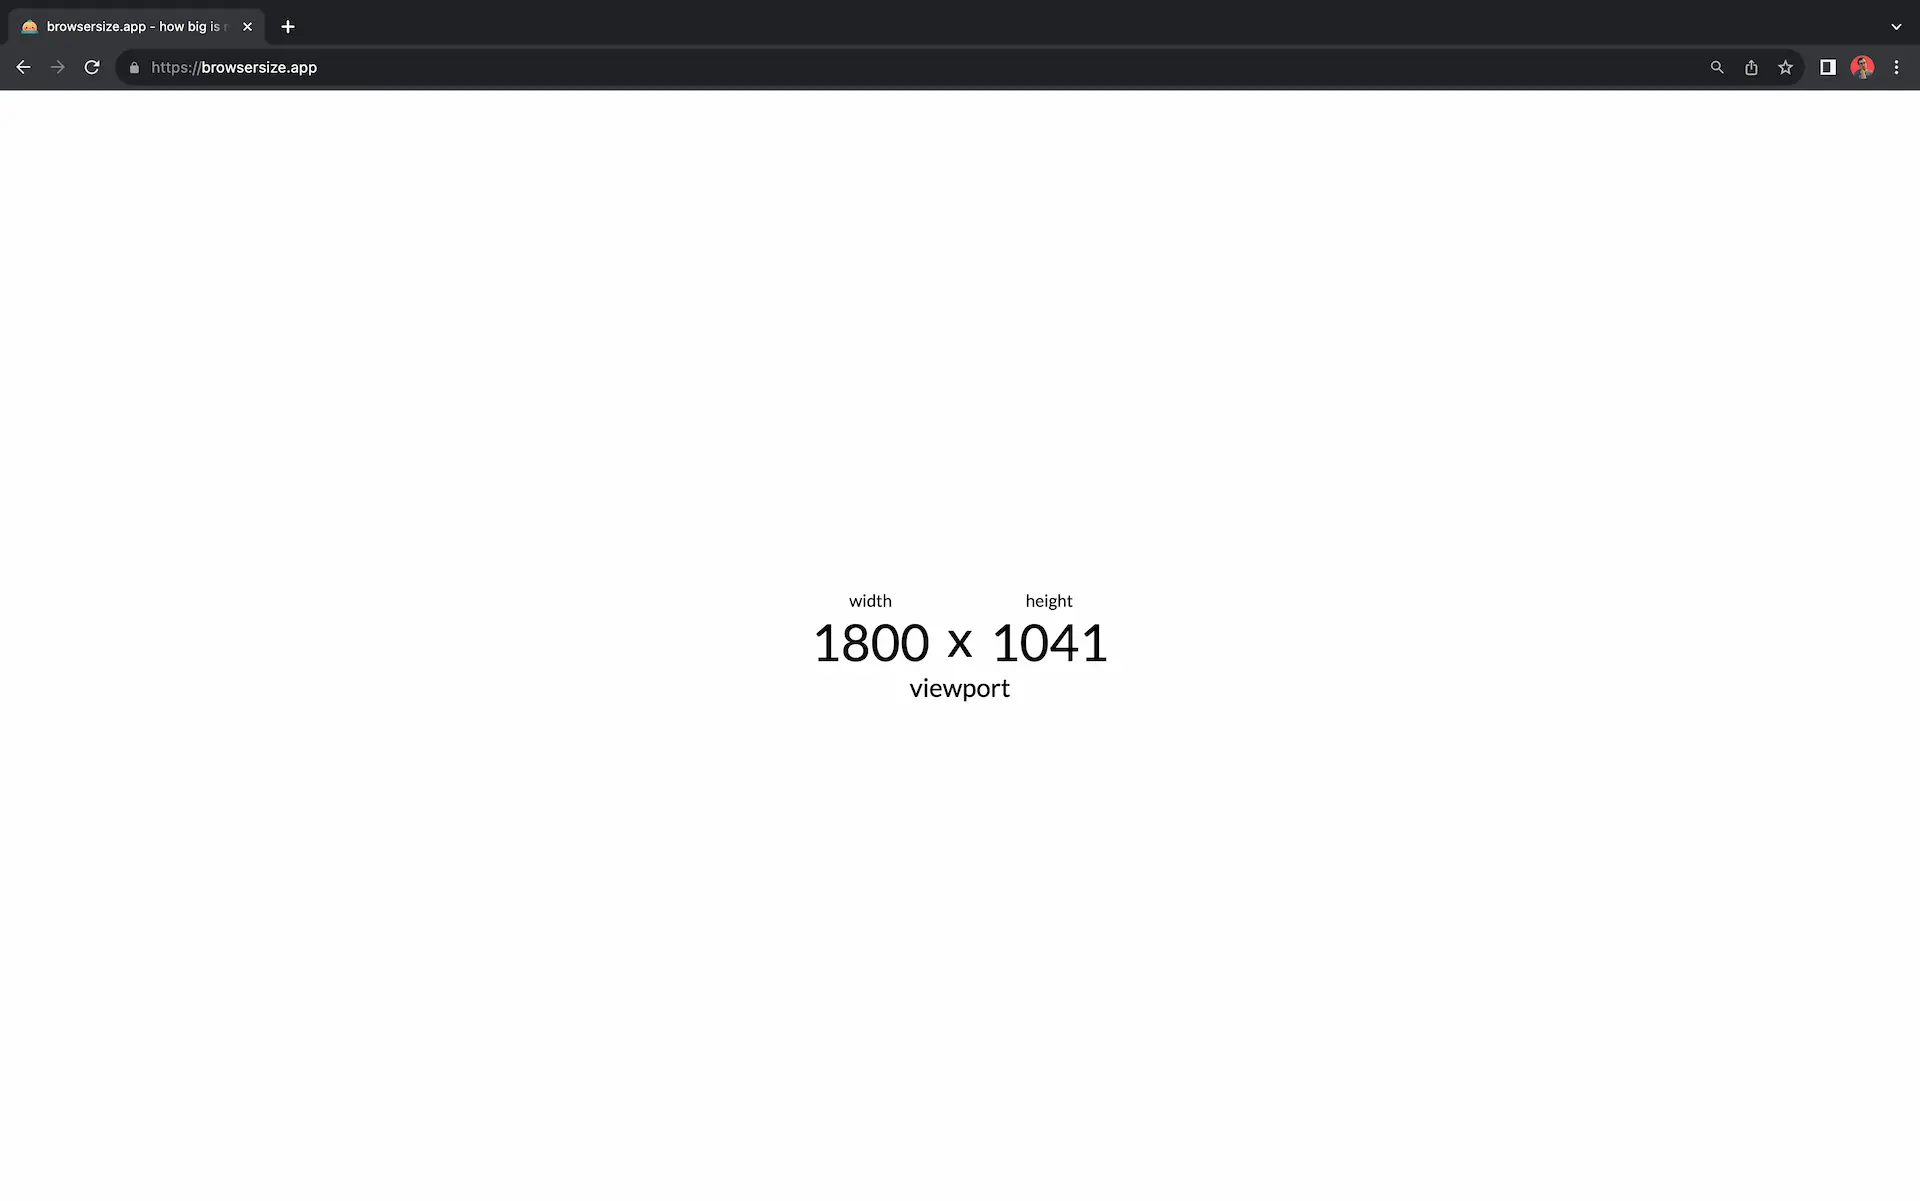
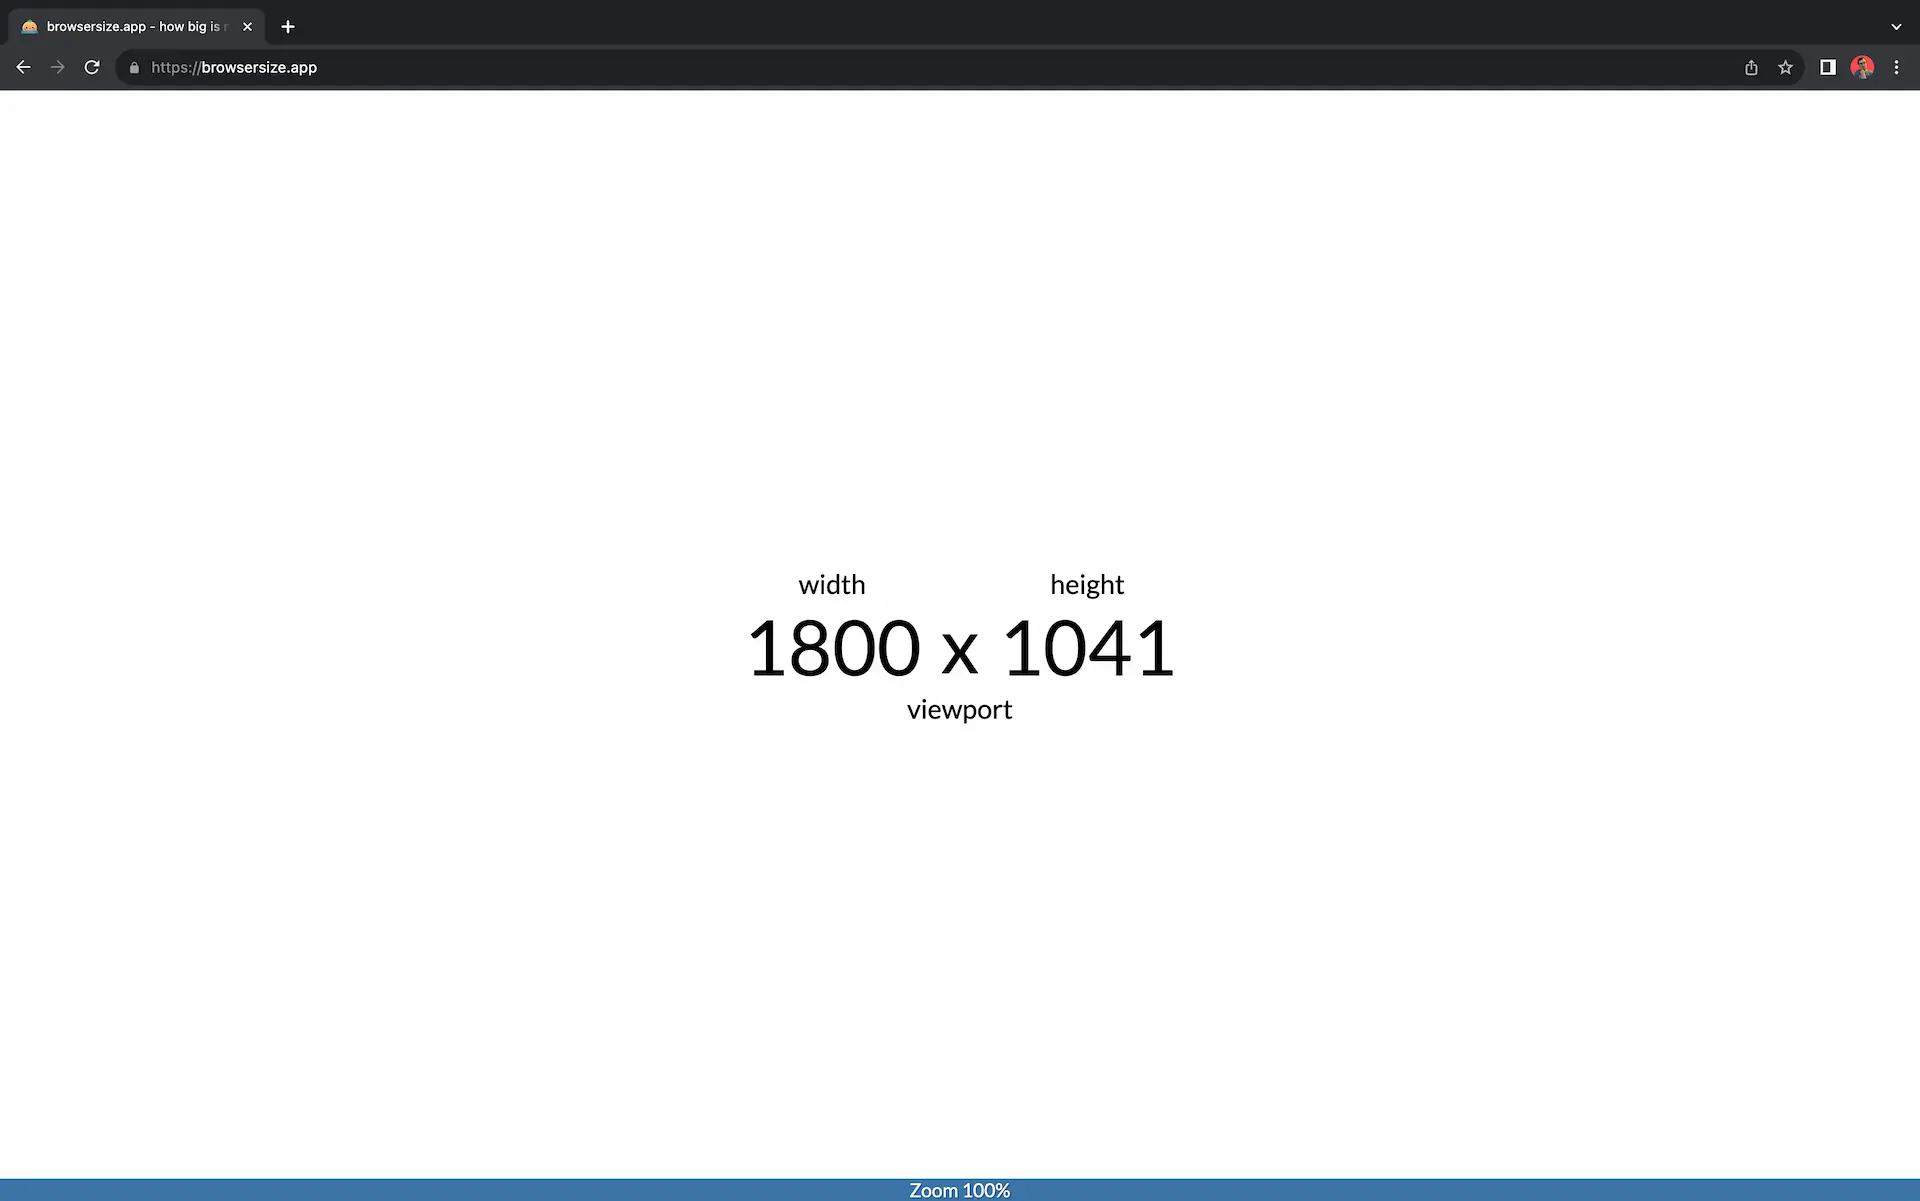
updated screenshot

Changed region(s): [[0.0, 0.955, 1.0, 1.0], [0.375, 0.4621, 0.625, 0.6162]]

diff --git a/README.md b/README.md
@@ -2,7 +2,7 @@
 
 Authors: Felicitas Tomke, Oliver Jessner
 
-Visits [browsersize.app](https://browsersize.app) and displays the size of your browser window.
+Visits [browsersize.app](https://browsersize.app) and displays the size of your browser window. Also tells you if your are zoomed in or out.
 
 ![](public/assets/images/screenshot.webp)
 
